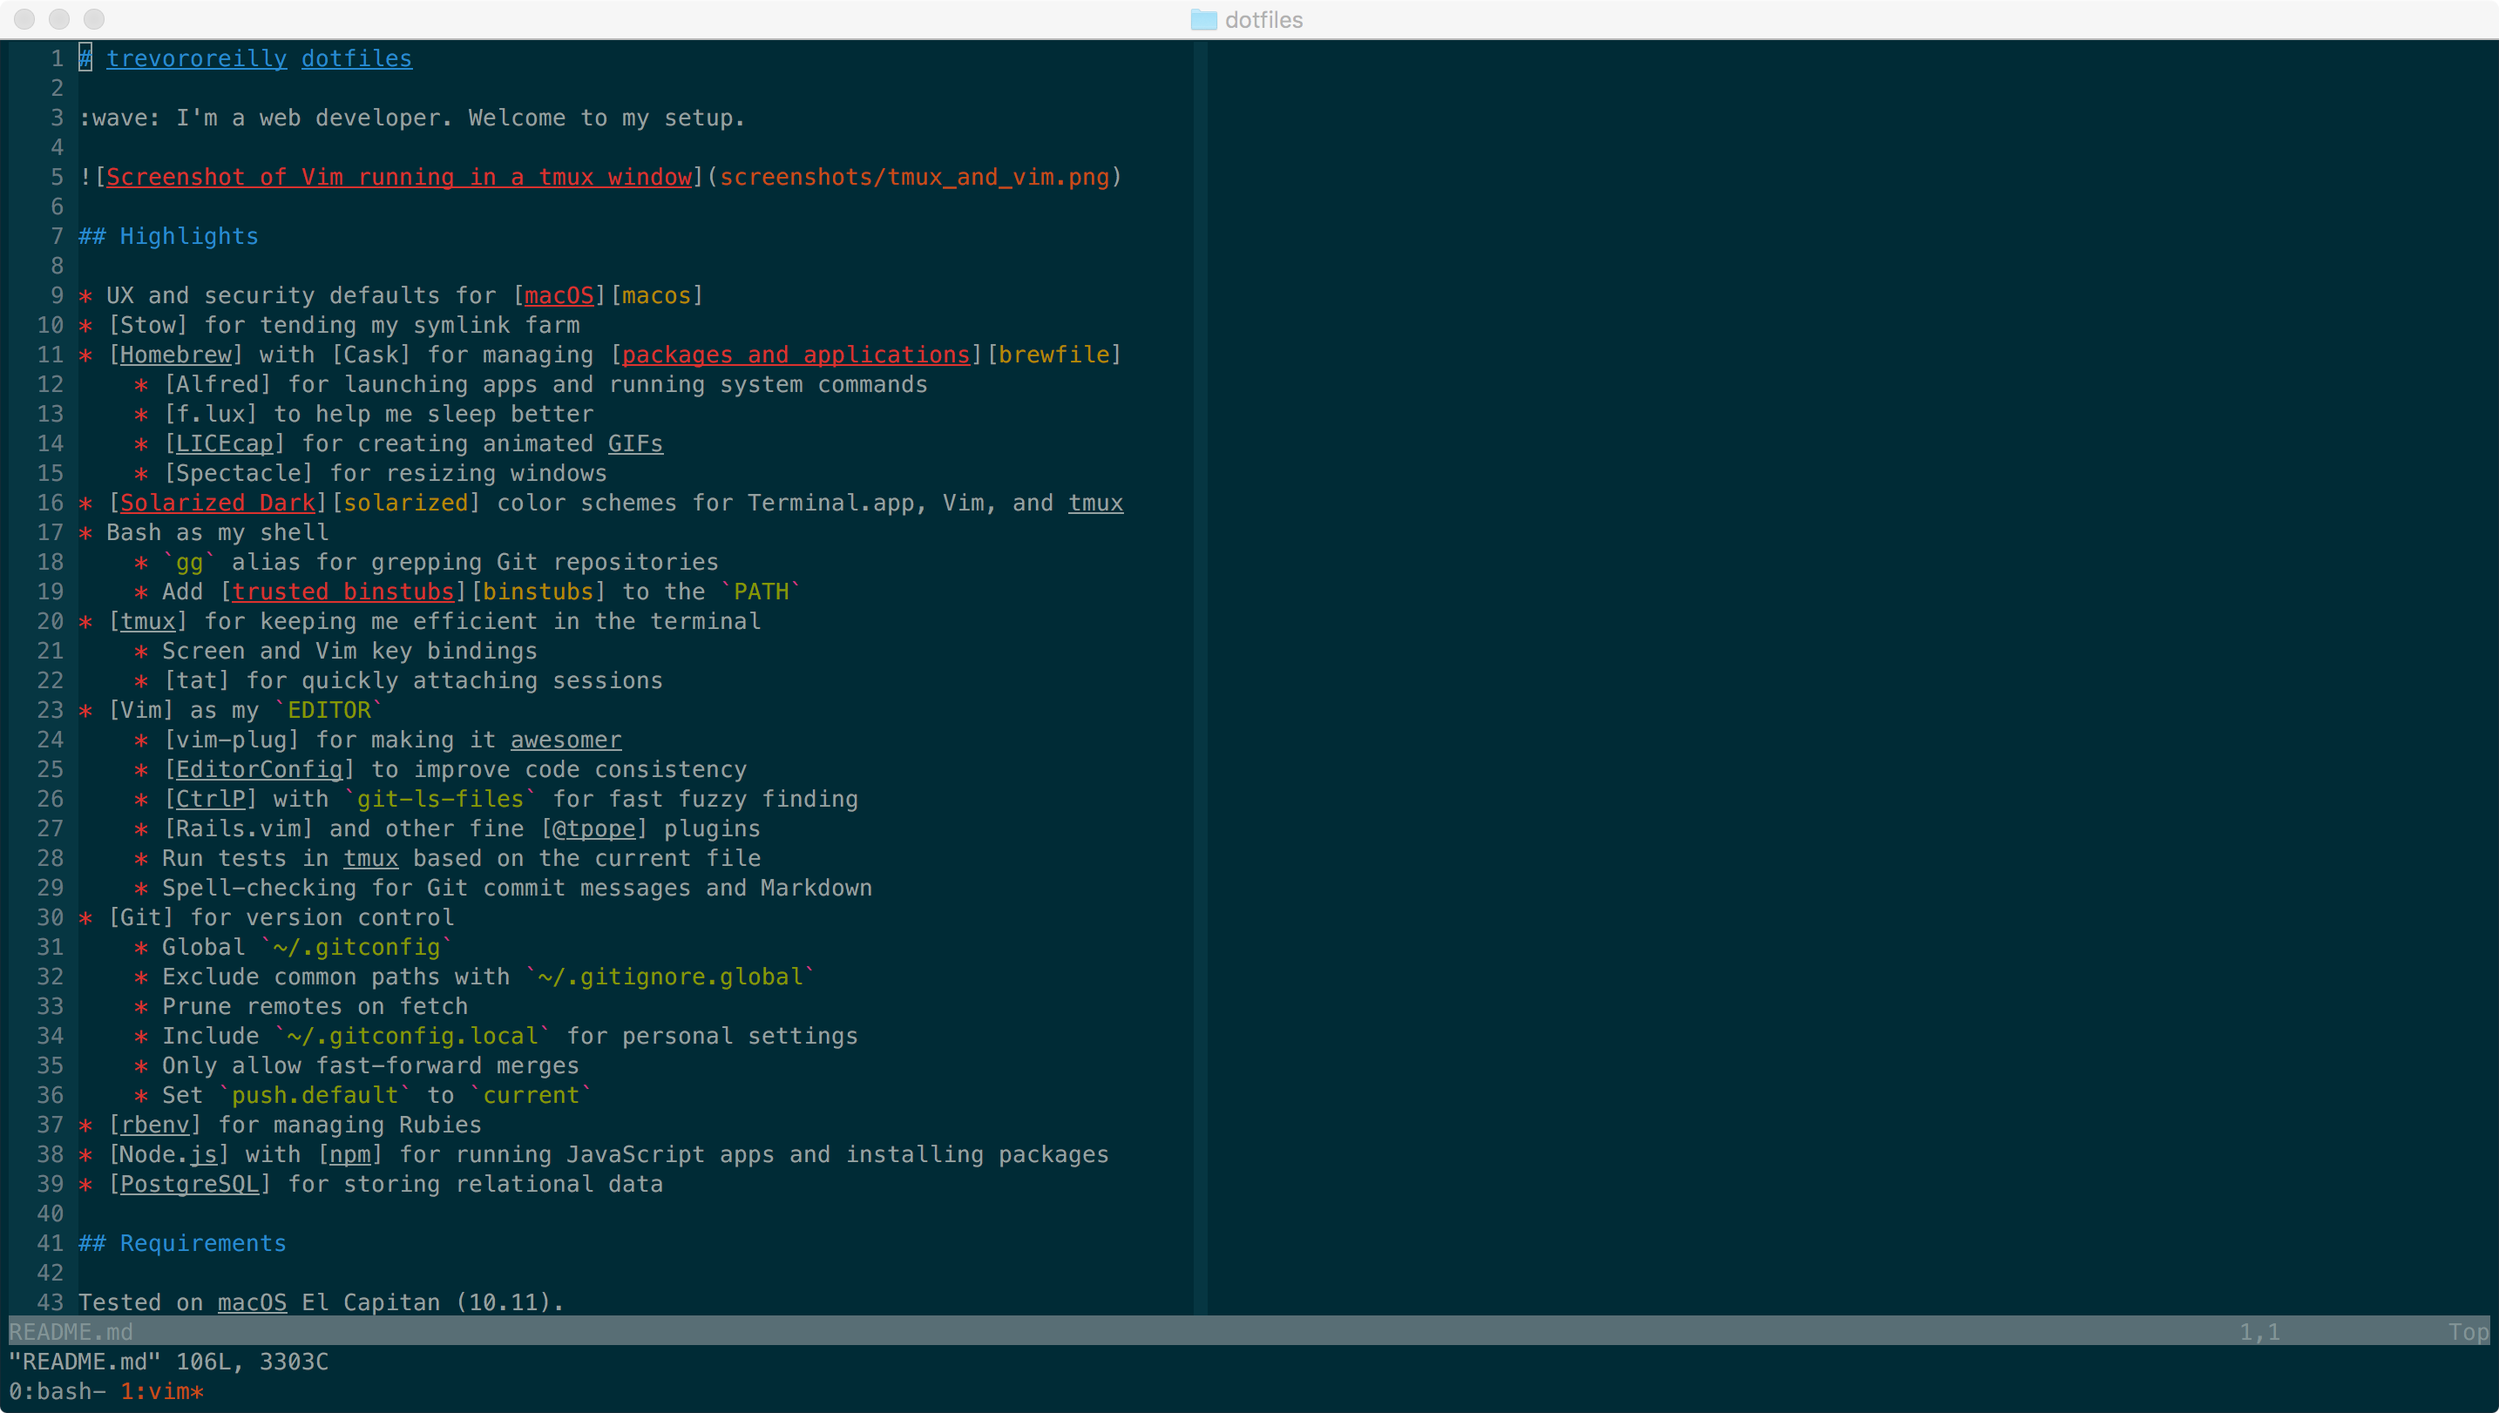
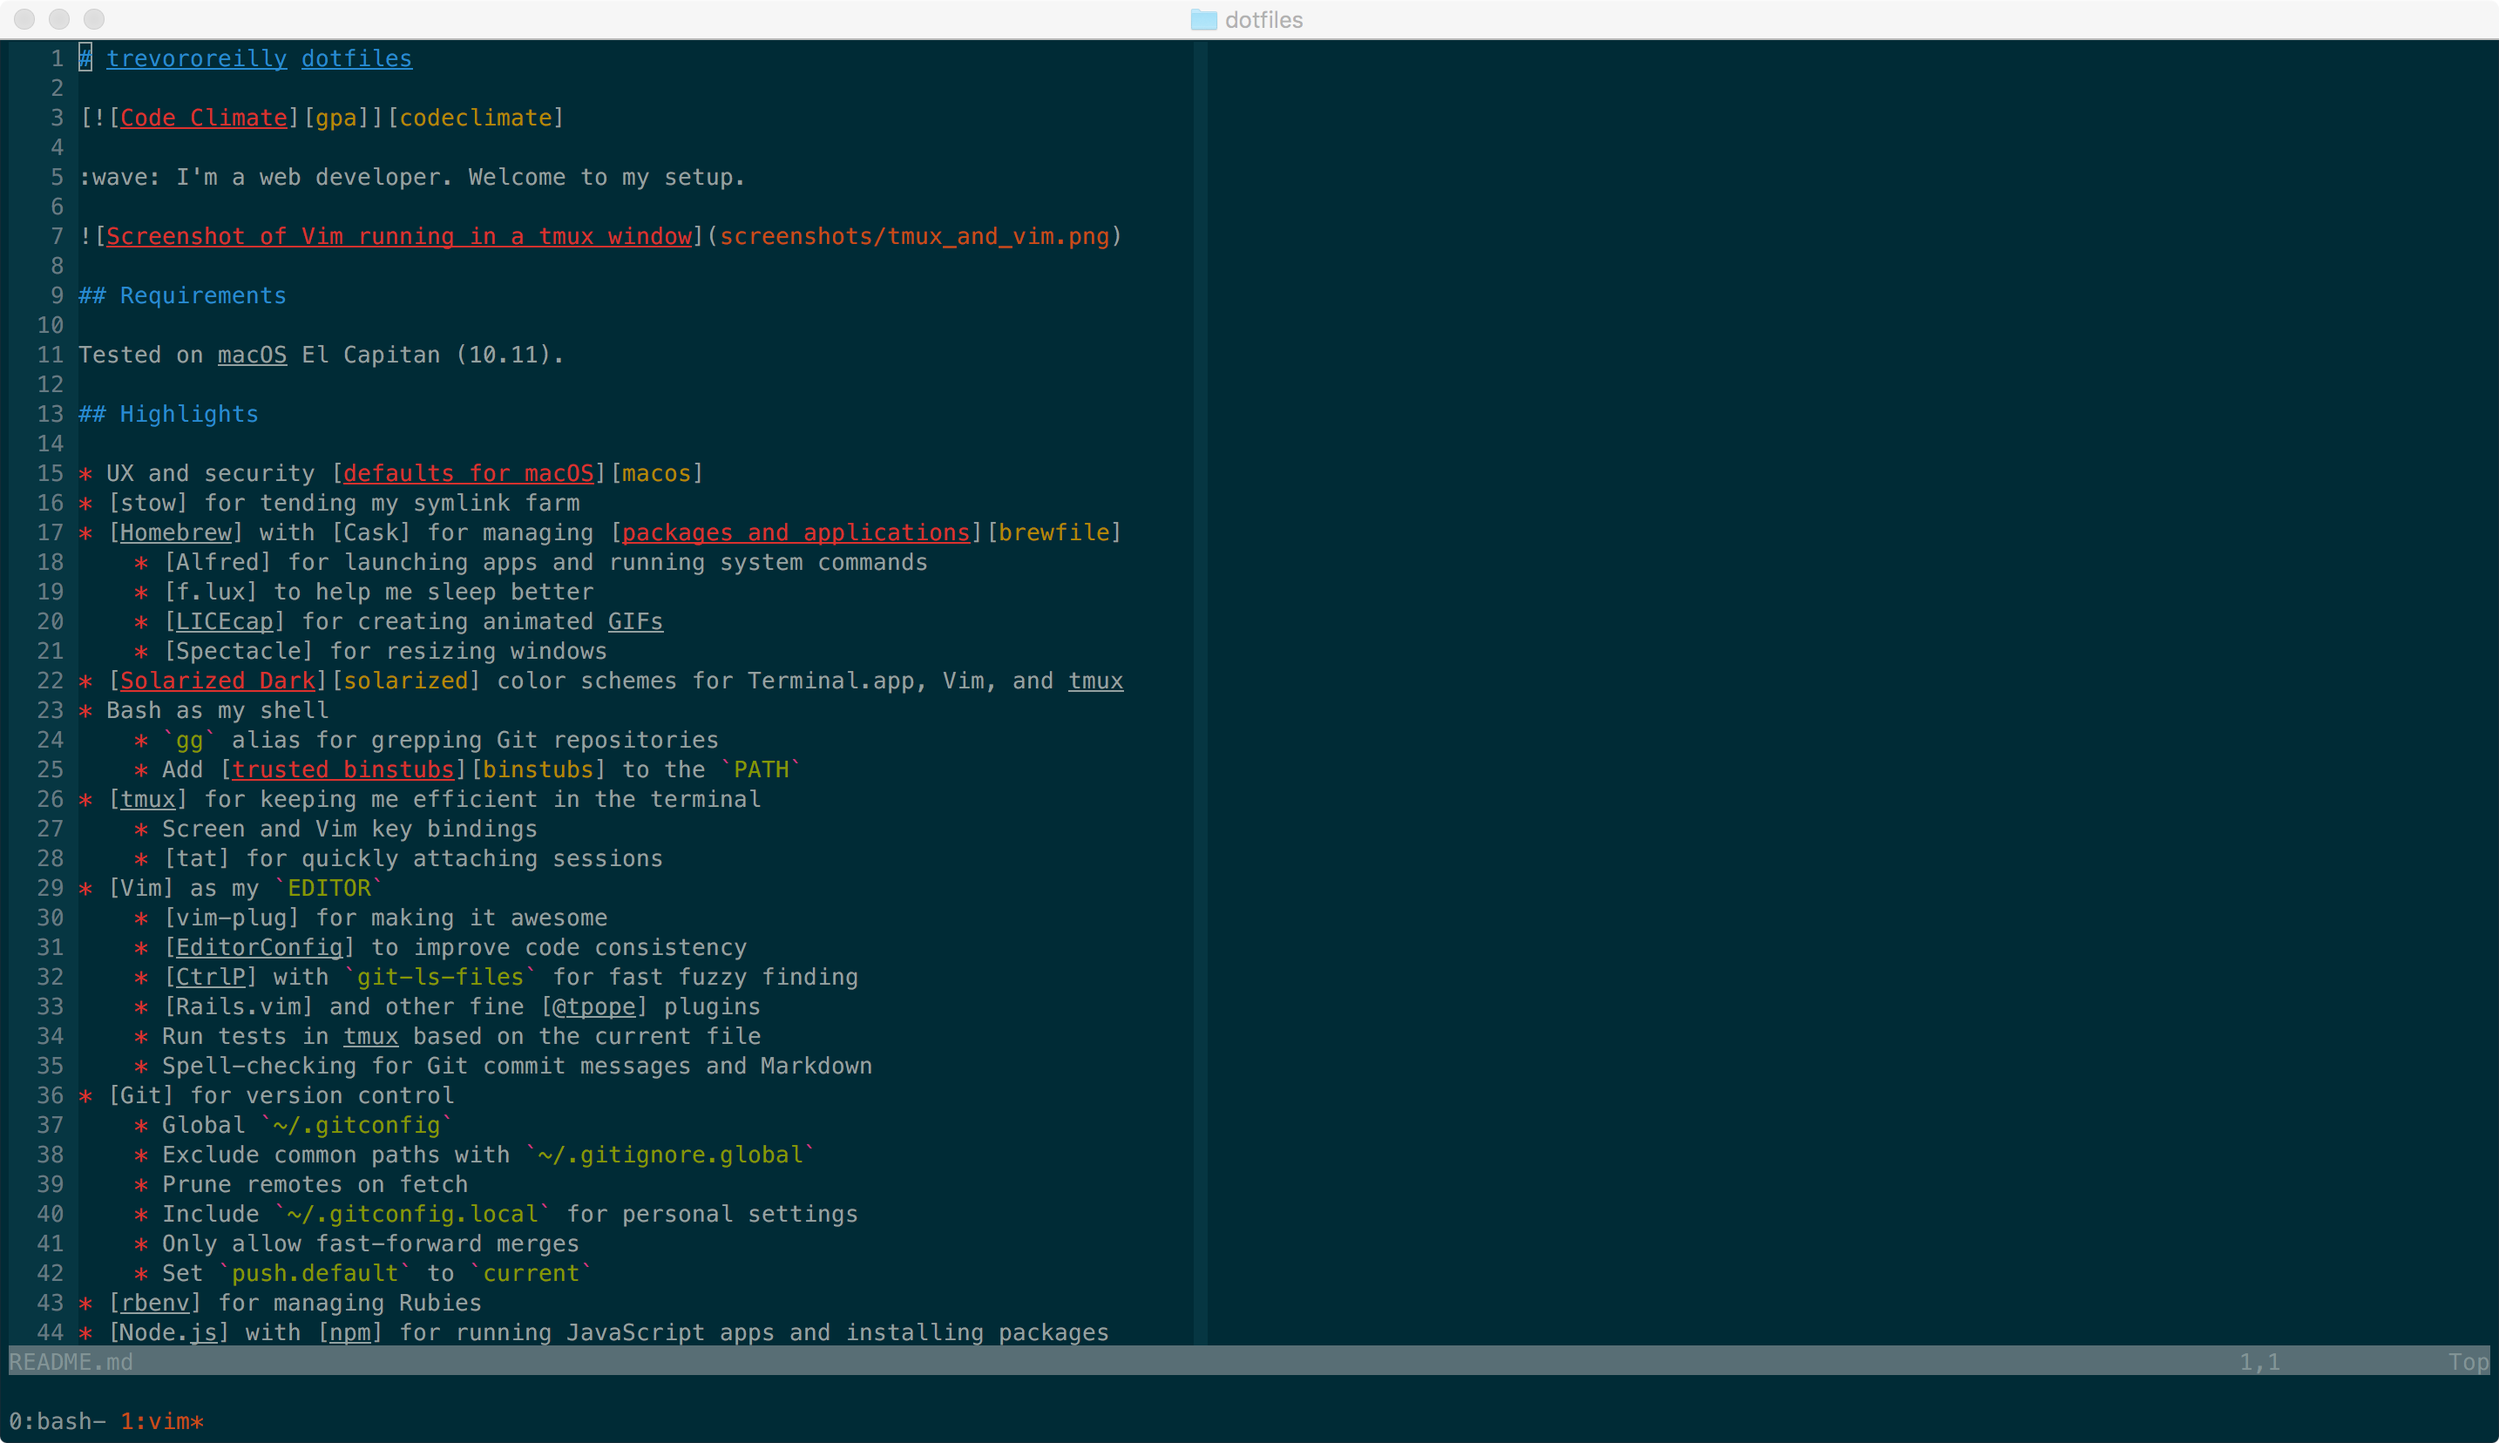
Update README
* Make requirements clear earlier
* Tweak copy
* Update screenshot

diff --git a/README.md b/README.md
@@ -6,9 +6,13 @@
 
 ![Screenshot of Vim running in a tmux window](screenshots/tmux_and_vim.png)
 
+## Requirements
+
+Tested on macOS El Capitan (10.11).
+
 ## Highlights
 
-* UX and security defaults for [macOS][macos]
+* UX and security [defaults for macOS][macos]
 * [stow] for tending my symlink farm
 * [Homebrew] with [Cask] for managing [packages and applications][brewfile]
     * [Alfred] for launching apps and running system commands
@@ -23,7 +27,7 @@
     * Screen and Vim key bindings
     * [tat] for quickly attaching sessions
 * [Vim] as my `EDITOR`
-    * [vim-plug] for making it awesomer
+    * [vim-plug] for making it awesome
     * [EditorConfig] to improve code consistency
     * [CtrlP] with `git-ls-files` for fast fuzzy finding
     * [Rails.vim] and other fine [@tpope] plugins
@@ -39,10 +43,6 @@
 * [rbenv] for managing Rubies
 * [Node.js] with [npm] for running JavaScript apps and installing packages
 * [PostgreSQL] for storing relational data
-
-## Requirements
-
-Tested on macOS El Capitan (10.11).
 
 ## Installation
 
